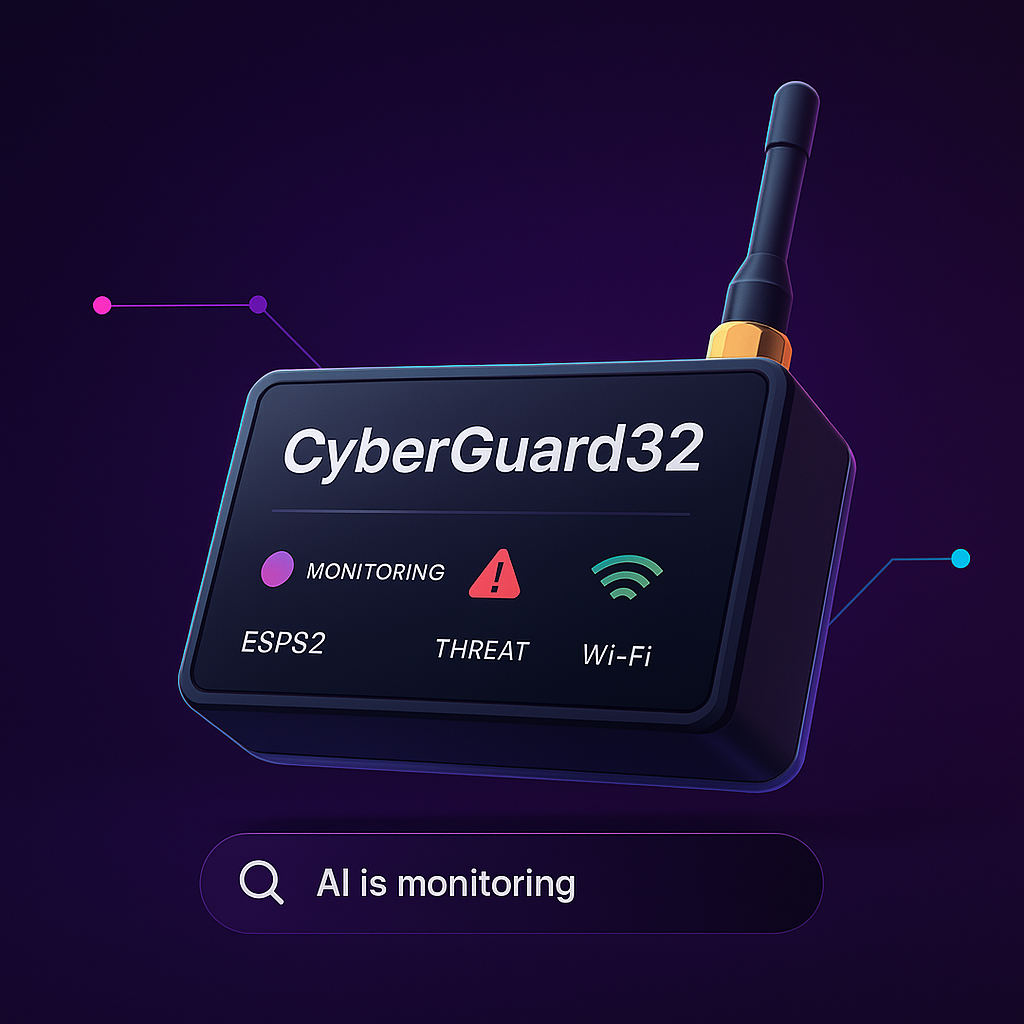
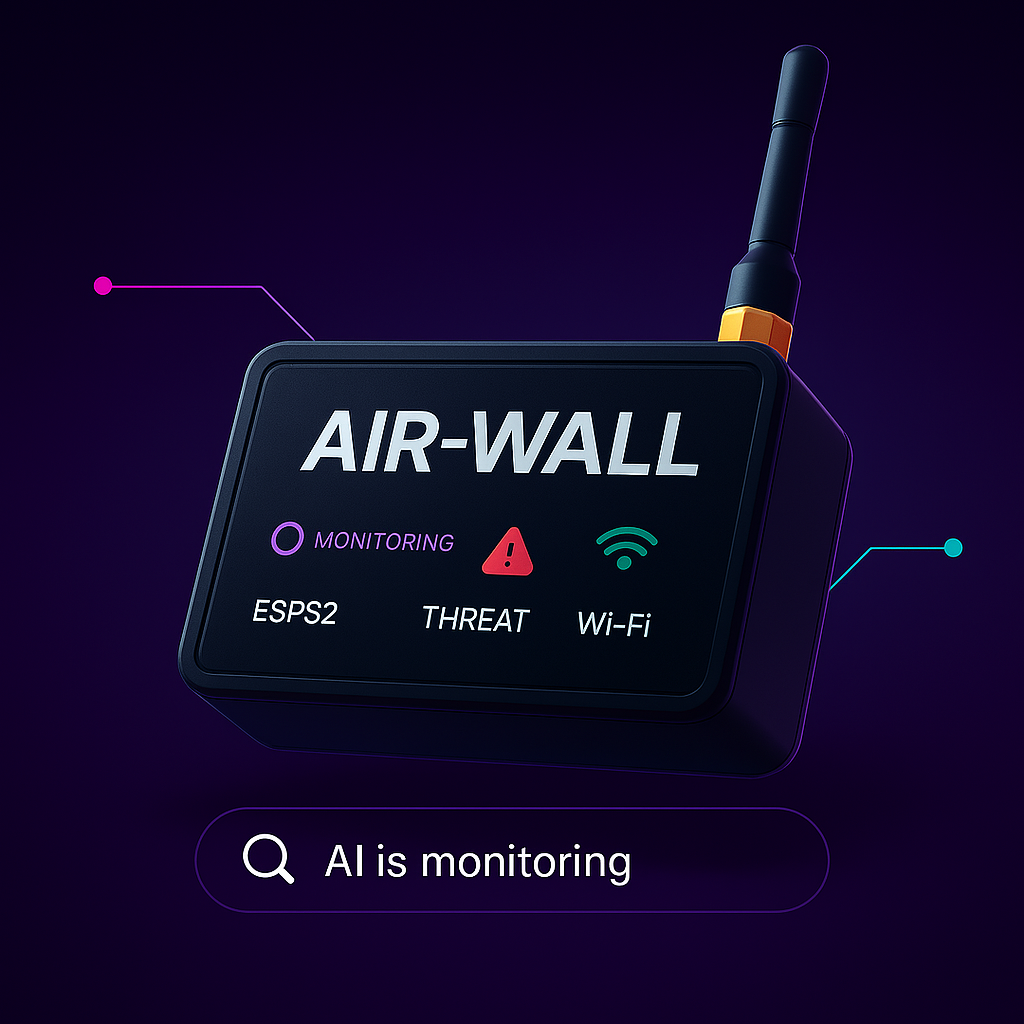
feat: Update branding references from CyberGuard to AIR-WALL across components and constants

Changed region(s): [[0.0938, 0.0312, 0.9688, 0.9062], [0.5625, 0.5, 0.6562, 0.6562], [0.7812, 0.8125, 0.8125, 0.9062]]

diff --git a/Product Page/src/components/Hero.jsx b/Product Page/src/components/Hero.jsx
@@ -25,7 +25,7 @@ const Hero = () => {
         <h1 className="h1 mb-6">
           Stay Secure on&nbsp;Any&nbsp;Network with {` `}
           <span className="inline-block relative">
-            CyberGuard32{" "}
+            AIR-WALL{" "}
             <img
               src={curve}
               className="absolute top-full left-0 w-full xl:-mt-2"
@@ -39,7 +39,7 @@ const Hero = () => {
 
 
           <p className="body-1 max-w-3xl mx-auto mb-6 text-n-2 lg:mb-8">
-          Unleash smart security with CyberGuard32. Safeguard your Wi-Fi and control IoT devices with our all-in-one embedded solution.
+          Unleash smart security with AIR-WALL. Safeguard your Wi-Fi and control IoT devices with our all-in-one embedded solution.
           </p>
         </div>
         <div className="relative max-w-[23rem] mx-auto md:max-w-5xl xl:mb-24">
@@ -56,7 +56,7 @@ const Hero = () => {
                   alt="AI"
                 />
 
-                <Generating className="absolute left-4 right-4 bottom-5 md:left-1/2 md:right-auto md:bottom-8 md:w-[31rem] md:-translate-x-1/2" />
+                {/* <Generating className="absolute left-4 right-4 bottom-5 md:left-1/2 md:right-auto md:bottom-8 md:w-[31rem] md:-translate-x-1/2" /> */}
 
                 <ScrollParallax isAbsolutelyPositioned>
                   <ul className="hidden absolute -left-[5.5rem] bottom-[7.5rem] px-1 py-1 bg-n-9/40 backdrop-blur border border-n-1/10 rounded-2xl xl:flex">

diff --git a/Product Page/src/constants/index.js b/Product Page/src/constants/index.js
@@ -220,16 +220,27 @@ export const pricing = [
   {
     id: "1",
     title: "Premium",
-    description: "Coming Soon",
-    price: "",
-    features: []
+    description: "This plan will be available soon with extended features.",
+    price: null, // or "—"
+    features: [
+      "Advanced real-time network monitoring",
+      "Automated port scanning and vulnerability alerts",
+      "Customizable firewall configurations",
+      "Email and SMS intrusion notifications",
+    ],
   },
+  
   {
     id: "2",
     title: "Enterprise",
-    description: "Coming Soon",
-    price: "",
-    features: []
+    description: "Tailored solutions coming soon for large-scale cybersecurity needs.",
+    price: null, // or "—"
+    features: [
+      "Full-suite cybersecurity dashboard with team collaboration",
+      "Wi-Fi analyzer with rogue device detection",
+      "Data encryption module for local and cloud files",
+      "Dedicated support with SLA and custom onboarding",
+    ],
   },
 ];
 
@@ -254,7 +265,7 @@ export const benefits = [
   {
     id: "2",
     title: "Secure Access Anywhere",
-    text: "Access the CyberGuard toolkit from any device, providing protection and insights wherever you go.",
+    text: "Access the AIR-WALL toolkit from any device, providing protection and insights wherever you go.",
     backgroundUrl: "./src/assets/benefits/card-3.svg",
     iconUrl: benefitIcon3,
     imageUrl: benefitImage2,

diff --git a/Product Page/src/components/Services.jsx b/Product Page/src/components/Services.jsx
@@ -17,7 +17,7 @@ const Services = () => {
       <div className="container">
         <Heading
           title="Next-Gen Cyber Protection."
-          text="CyberGuard unlocks the future of intelligent digital protection."
+          text="AIR-WALL unlocks the future of intelligent digital protection."
         />
 
         <div className="relative">
@@ -33,7 +33,7 @@ const Services = () => {
             </div>
 
             <div className="relative z-1 max-w-[17rem] ml-auto">
-              <h4 className="h4 mb-4">CyberGuard AI</h4>
+              <h4 className="h4 mb-4">AIR-WALL</h4>
               <p className="body-2 mb-[3rem] text-n-3">
               Empowering the future of smart cybersecurity solutions
               </p>

diff --git a/Product Page/src/components/design/Services.jsx b/Product Page/src/components/design/Services.jsx
@@ -18,7 +18,7 @@ export const Gradient = () => {
 export const PhotoChatMessage = () => {
   return (
     <div className="absolute top-8 right-8 max-w-[17.5rem] py-6 px-8 bg-black rounded-t-xl rounded-bl-xl font-code text-base lg:top-16 lg:right-[8.75rem] lg:max-w-[17.5rem]">
-      Hey CyberGuard, scan this image for potential threats
+      Hey AIR-WALL, scan this image for potential threats
       <ChatBubbleWing className="absolute left-full bottom-0" />
     </div>
   );

diff --git a/Product Page/src/components/Benefits.jsx b/Product Page/src/components/Benefits.jsx
@@ -11,7 +11,7 @@ const Benefits = () => {
       <div className="container relative z-2">
         <Heading
           className="md:max-w-md lg:max-w-2xl"
-          title="Where Smart Meets Safe – Chat with CyberGuard"
+          title="Where Smart Meets Safe – Chat with AIR-WALL"
         />
 
         <div className="flex flex-wrap gap-10 mb-10">

diff --git a/Product Page/src/components/PricingList.jsx b/Product Page/src/components/PricingList.jsx
@@ -32,7 +32,7 @@ const PricingList = () => {
             href={item.price ? "/pricing" : "mailto:contact@jsmastery.pro"}
             white={!!item.price}
           >
-            {item.price ? "Get started" : "Contact us"}
+            {item.price ? "Purchase" : "Contact us"}
           </Button>
 
           <ul>

diff --git a/Product Page/src/components/Pricing.jsx b/Product Page/src/components/Pricing.jsx
@@ -29,7 +29,7 @@ const Pricing = () => {
         </div>
 
         <Heading
-          tag="Get started with CyberGuard32"
+          tag="Get started with AIR-WALL"
           title="Pay once, use forever"
         />
 
